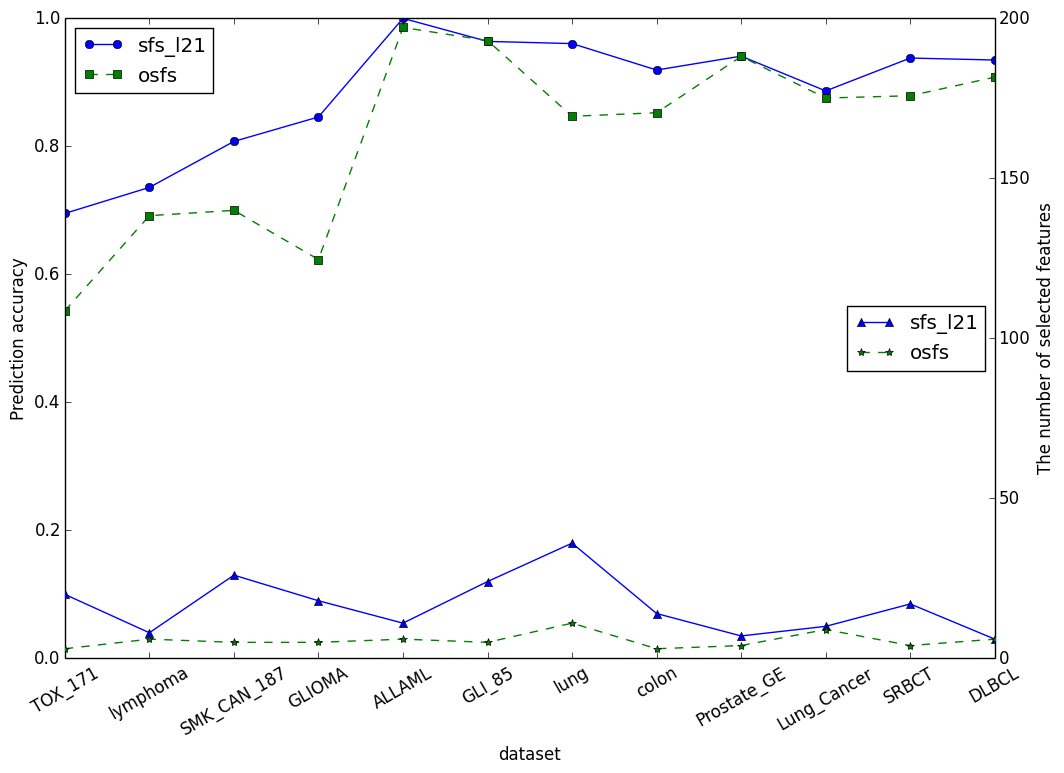
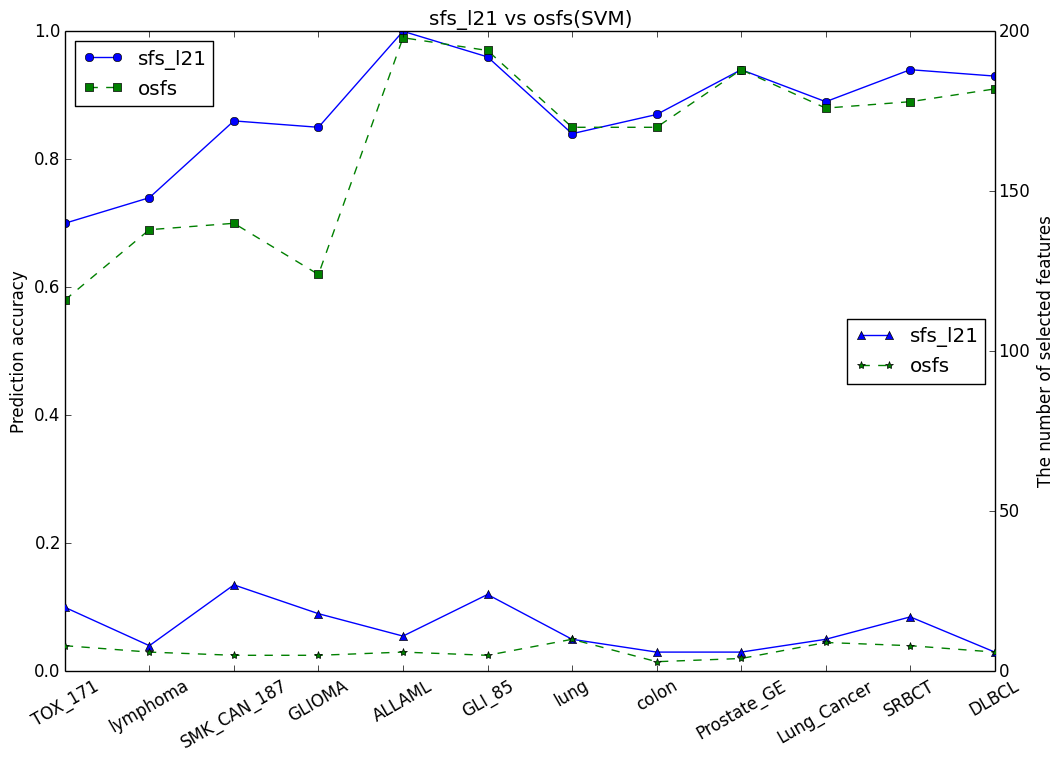
fix gene/draw.py, set_title (alg1, alg2, clf) for recognizing diffrent png conveniently

diff --git a/datas/gene/draw.py b/datas/gene/draw.py
@@ -42,6 +42,19 @@ def draw_sfs_l21_vs_other(cls, nfs, write_to_folder):
     ax1.legend(loc="upper left")
     ax2.legend(loc="center right")
     alg1, alg2 = cls.columns
+    classifiers = {
+        "result":"SVM",
+        "ab":"AdaBoost",
+        "dt":"Decision Tree", 
+        "gb":"Gradient Boosting",
+        "lr":"Logistics Regression", 
+        "nb":"Naive Bayes",
+        "nn":"Neural Network",
+        "rf":"Random Forest",
+        "sgd":"Stochastic Gradient Descent"
+    }
+    clf = write_to_folder.split('_')[-1]
+    ax1.set_title("%s vs %s(%s)"%(alg1, alg2, classifiers[clf]))
     fig.savefig("%s/all_%s_vs_%s.png" %
                 (write_to_folder, alg1, alg2), bbox_inches='tight')
     plt.close()
@@ -98,10 +111,10 @@ def draw_compactness(nfs):
 
 def main(from_folder):
     clses, nfses = get_cls_nfs(from_folder)
-    print nfses
-    # draw_vs_others(clses, nfses, from_folder)
+    draw_vs_others(clses, nfses, from_folder)
     # draw(clses, nfses, "all", from_folder)
-    draw_compactness(nfses)
+    # print nfses
+    # draw_compactness(nfses)
 
 
 if __name__ == '__main__':
